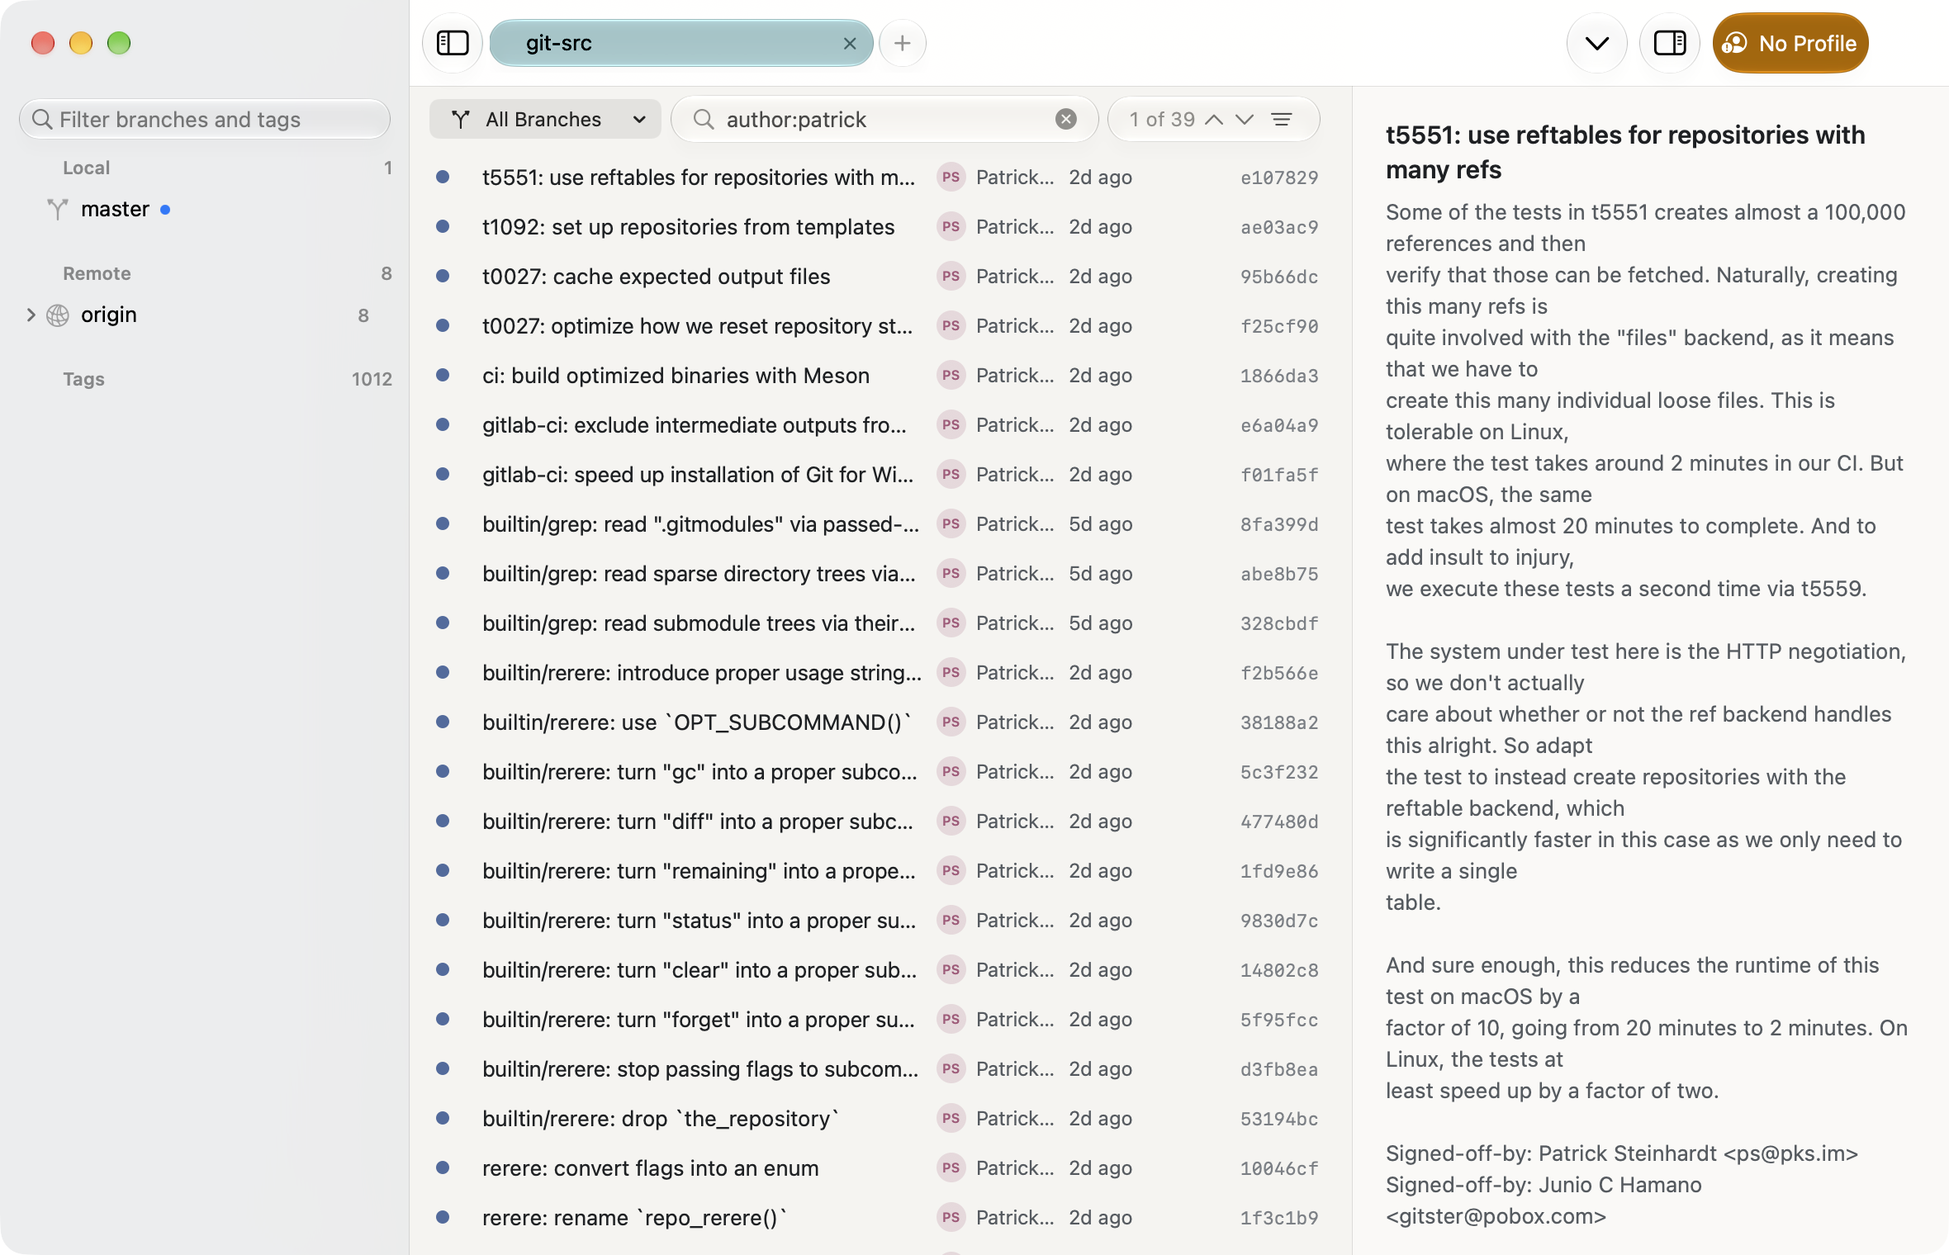
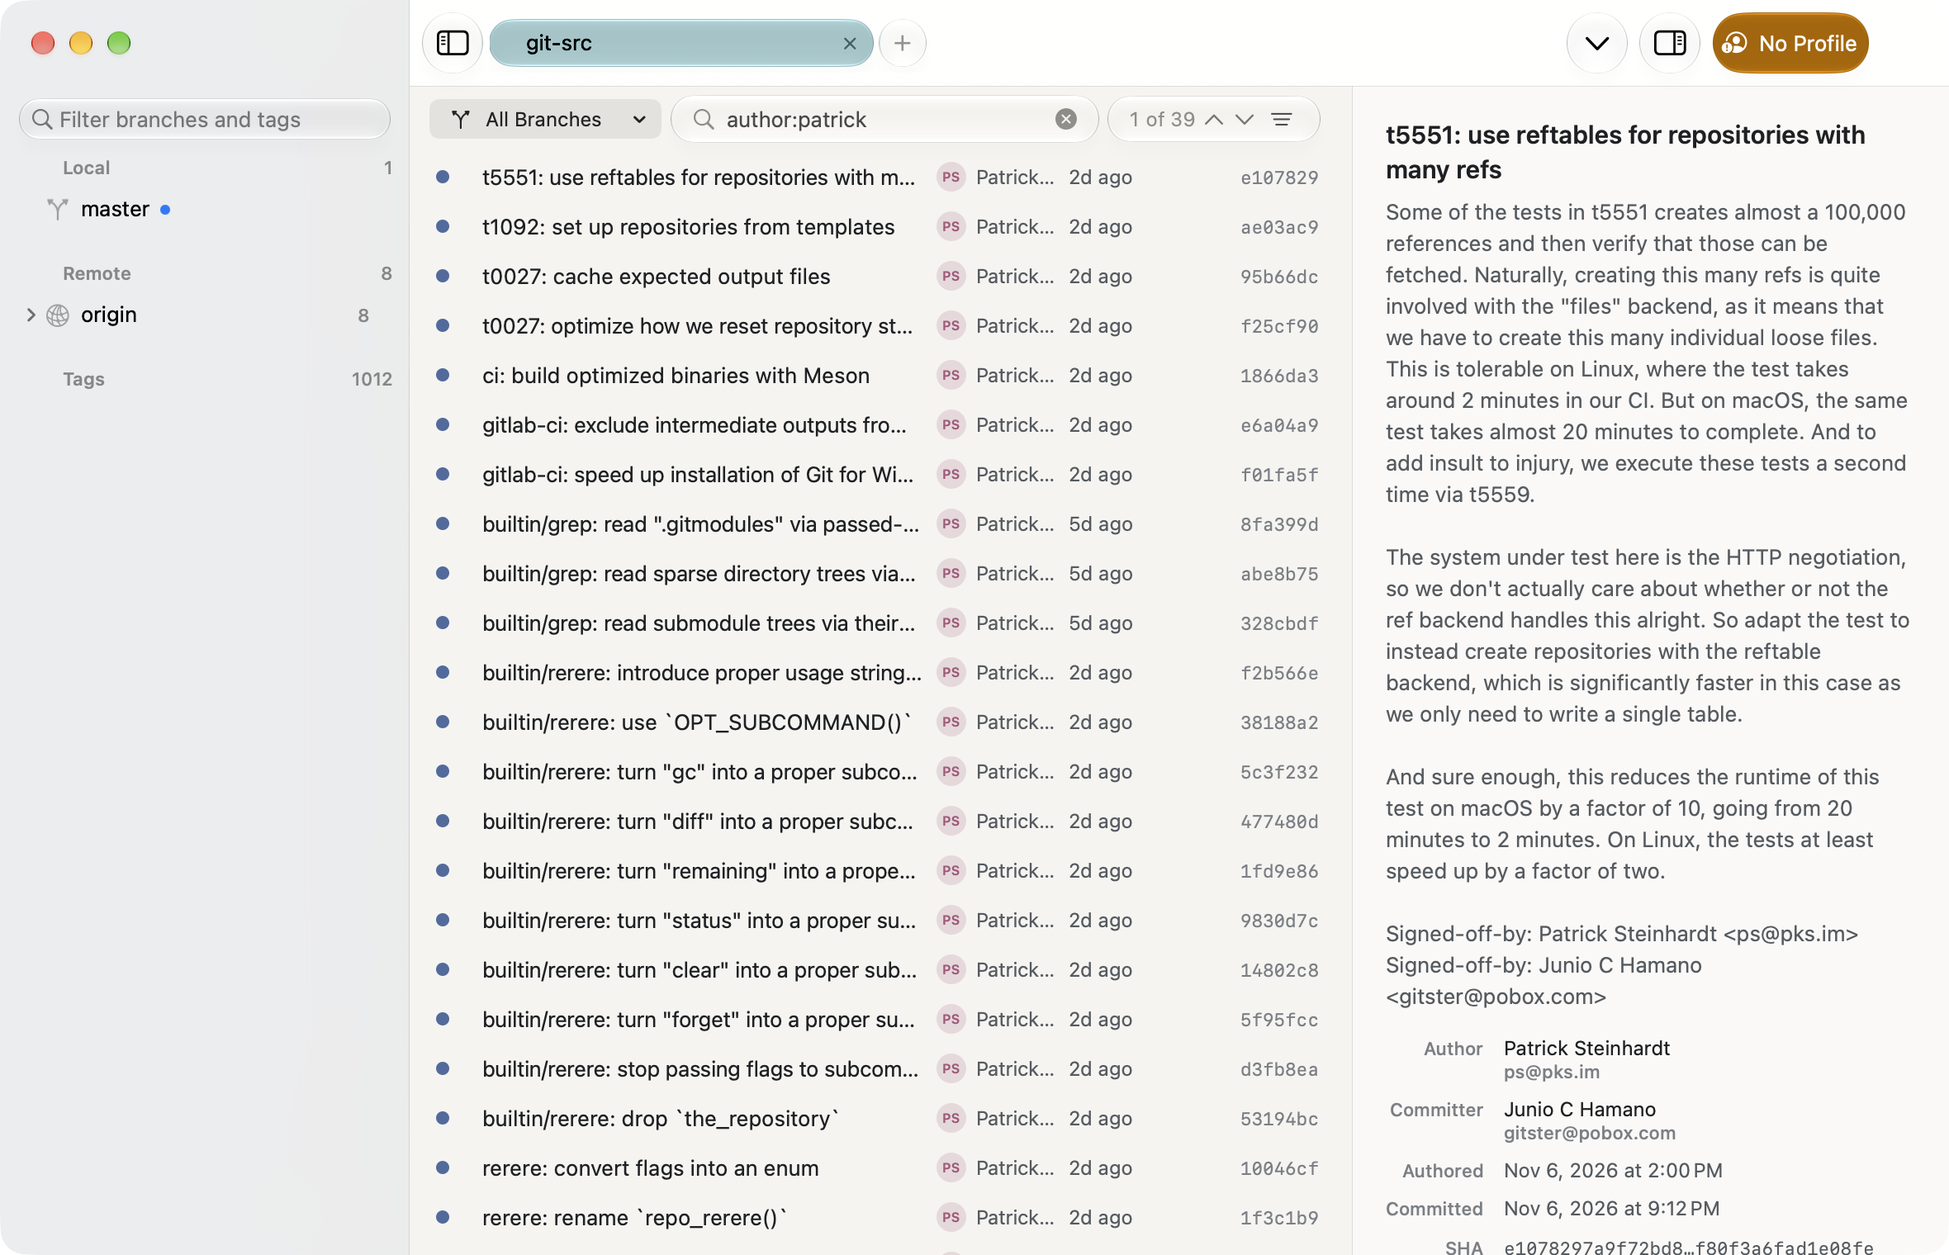
docs(phase-02): performance results, screenshots, specs, progress report

Changed region(s): [[0.7114, 0.1855, 0.9898, 1.0]]

diff --git a/docs/phases/02-graph-and-navigation/progress.md b/docs/phases/02-graph-and-navigation/progress.md
@@ -1,0 +1,137 @@
+# Phase 02 — Git graph & navigation: progress report
+
+Status: **complete with carry-overs** (listed below)
+Branch / PR: `phase/02-graph-and-navigation` (from `main` after Phases 0–1 merged), PR: see below
+Environment: MacBook Pro `Mac17,9` (Apple M5 Pro, 24 GB), macOS 27.2, Xcode 27.2, Swift 6.4.2, Git 2.54.0
+(Homebrew), XcodeGen 2.46.0
+
+## Preconditions (P2.0)
+Verified against the code: `RepositoryHandle` generation/invalidate, `ProcessRunner` (posix_spawn, argv, own
+process group, Dispatch I/O, cancellation → `killpg`), `GitTestKit`, `RepositorySession`, per-tab `ui` blob,
+FSEvents classifier with `.refs`/`.head`/`.index`/worktree kinds, status model, three-pane workbench, Phase 1 idle
+baseline. **Missing:** a suspendable stream API for backpressure — implemented as P2.0 (`ProcessStream`,
+`specs/P2.0-streamed-process.md`, 8 tests).
+
+## Implemented
+- **P2.1 Fixtures** — `GitTestKit.Topology` (fast-import DSL: linear, branch, merge/octopus, orphan, tags,
+  remote refs, detach), `SyntheticHistory` (1k/10k/100k: 50 branches, merge every 20, 200 tags), `RandomTopology`
+  (seeded DAGs), `JitBench make-history`, `scripts/benchmarks/make-history-fixture.sh`. 100k builds in 6.2 s,
+  same HEAD every time. Evidence: `TopologyTests` (4).
+- **P2.2 Refs** — `RefSnapshot`/`GitRef`, byte-level `for-each-ref` parser (peeled tags, upstream track/gone,
+  HEAD, symbolic remote HEADs, non-commit tags), inline 32-byte `ObjectID`, `StableHash` revision. 10k refs: 4 ms.
+  Evidence: `RefsTests` (11).
+- **P2.3 Spike S1/S4** — three history sources measured; long-lived `git log` with backpressure chosen; readers
+  killed when hidden; losing prototypes deleted. ADR-0010.
+- **P2.4 Commit store & reader** — chunked columnar `CommitStore`, `LogParser` (memchr, no String per field),
+  `HistoryLoader` actor (shared reads, cancellation kills Git, `--skip` restart with drift check), `HistoryQuery`
+  scopes/path/follow/pinned. 189 B/commit, 18.1 MB for 100k; 385 live heap blocks for 25 chunks. ADR-0022.
+  Evidence: `HistoryLoaderTests` (12), `HistoryReaderSuspensionTests` (2), `CommitStoreMemoryTests` (2).
+- **P2.5 Lane layout** — incremental, deterministic, prefix-stable `LaneLayouter` (cooldown, octopus, roots,
+  pinned reservations, HEAD slot 0, name-stable colours with adjacency avoidance). 10 golden files reviewed by
+  hand, seeded property test over random DAGs × random page and pipe-read sizes. 13 ms for 100k. ADR-0021.
+  Evidence: `LaneGoldenTests` (10), `LanePropertyTests` (5, one parameterised × 8 seeds), `LanePerformanceTests`.
+- **P2.6 Graph renderer** — view-based `NSTableView`, Core Graphics cells (lanes/nodes, pills+subject in one
+  view, initials avatars), per-appearance colour table, pixel snapping, WIP row, footer, skeleton/empty/error
+  states, prefetch, hover/selection, density (View ▸ Graph Density), responsive columns, glass bar with scope menu,
+  search and chips. ADR-0009. Evidence: `LaneGeometryTests`, `RefLabelTests`, `DisplayTextTests`, screenshots.
+- **P2.7 Inspector** — details (subject, reflowed body, identities, dates, SHA copy, parent links, refs), changed
+  files (status, ± bars, renames, flat/tree, first-parent for merges, Combined disabled "planned"), WIP summary,
+  LRU 32, cancellation on reselect. Evidence: `CommitDetailsTests` (6), `MessageReflowTests`.
+- **P2.8 Navigator** — Local/Remote/Tags outline on the system sidebar material, hierarchy with collapsed
+  chains, filter with auto-expand/restore, persisted expansion, tracking badges, `upstream gone`, pins, tag
+  message popover, copy/solo/pin/show menus, ↩ to show in graph. Evidence: `NavigatorTreeBuilderTests` (6),
+  `NavigatorFilterTests`.
+- **P2.9 Search/scope/pin/solo/file history** — tokens, in-memory search, match navigation (↩/⇧↩, ⌘G/⇧⌘G,
+  Edit ▸ Find), Highlight vs Show Only Matches, deep search (streamed, bounded, cancellable), scope menu +
+  branch picker (persisted), pin left, solo chip, file/folder history chip with the `--follow` caveat.
+  Evidence: `HistorySearchTests` (8), `historyFileHistoryFollowsRename`, `pinLeftAssignsLaneZero`.
+- **P2.10 Compare** — two commits (ordered older → newer, swap, `...` vs direct), commit ↔ working tree with the
+  untracked note, row menu entries. Evidence: `CompareTests` (3).
+- **P2.11 Live refresh** — `HistoryInvalidation` (unchanged / labels in place / background reload + swap keeping
+  selection and scroll anchor), hidden tabs defer, WIP row follows status, context-menu audit. ADR-0024.
+  Evidence: `HistoryInvalidationTests` (5), `HistoryControllerTests` (4).
+- **P2.12 Verification** — `JIT_BENCHMARK_GRAPH=1` in-app benchmark, idle runs, ADR-0023 read-only policy,
+  row accessibility labels.
+
+## Verified
+- Tests: `swift test` **215 passed** (GitCoreTests 150, ServicesTests 39, FeaturesTests 14, DesignSystemTests 12);
+  `xcodebuild test` (JitAppTests) **23 passed**; skipped: none. Lint clean (`scripts/build/lint.sh`).
+- Real workflow (debug and release app, real repositories): git/git clone (86k commits, 1,012 tags), 1k/10k/100k
+  fixtures, a dirty copy of the 1k fixture, an empty repository. Exercised through real launches with debug hooks
+  (row selection, compare, WIP selection, search, only-matches, density) and screenshots of each; one pointer
+  click selected a row before macOS asked to let Claude bypass the screen-capture picker — that permission was
+  left for the owner, and later checks used launch hooks instead of pointer automation. External commits /
+  label moves verified through `HistoryControllerTests` against real repositories.
+- Screenshots: `docs/phases/02-graph-and-navigation/screenshots/` — 8 screens × light/dark (index in its README).
+- Visual review: lanes thin and muted with nodes as the only emphasis, hollow merge rings, accent HEAD ring,
+  S-curves inside half rows, opaque tinted pills (current dot, `⇄` combined upstream, outlined remotes). Issues
+  found and fixed during the review: graph column hogging width (now fitted to visible lanes), columns hidden
+  under the floating inspector (safe area), SHA/author not fitting (responsive columns), skeleton not clearing,
+  ragged hard-wrapped bodies (reflow), WIP subject truncated by its counts, compare direction.
+
+## Performance (release build)
+| Metric | Previous | Now | Method |
+|---|---|---|---|
+| First 300 rows visible from history start, 100k | — | 143–156 ms with commit-graph; 413–427 ms without | `JIT_BENCHMARK_GRAPH=1` |
+| Same, git/git | — | 142–157 ms with; 485–504 ms without | same |
+| Page append (main thread) | — | median 0.27–0.30 ms | same |
+| Scroll step p95 / max, 400 screens | — | 1.76–1.94 ms / 10.9 ms, none > 16.7 ms | same |
+| Row draw p95 | — | 0.012 ms (fixtures), 0.110 ms (git/git) | same |
+| CommitStore 100k | — | 18.1 MB, 189 B/commit (git/git 86k: 53.4 MB) | `CommitStoreMemoryTests` |
+| App footprint | 31 MB no repo | 61 MB idle after first pages (100k); 86 MB all 100k loaded; 129 MB git/git all loaded | benchmark, `footprint` |
+| Search loaded 100k | — | 2.4 ms | benchmark |
+| Idle CPU / wakeups, 100k open | 0.0 % | 0.0 %; 1.0/s active, 0.57/s inactive (no-repo baseline 2.0/s) | `idle.sh` |
+| External commit → visible | — | 37 ms after the refs event (+ FSEvents 0.2 s) | `HistoryControllerTests` |
+
+Full table and methods: `docs/performance.md`.
+
+## Decisions
+- ADR-0009 Graph rendering — NSTableView + Core Graphics cells; sync row materialization (S2/S3).
+- ADR-0010 History loading — long-lived `git log` with backpressure; readers killed when hidden; `--skip` restart.
+- ADR-0021 Lane layout & colours — prefix-stable incremental layout, cooldown, HEAD slot 0, name-stable colours.
+- ADR-0022 Compact commit storage — chunked columnar store, inline 32-byte ids, parents as ids, 189 B/commit.
+- ADR-0023 Read-only invocation policy — no signature verification / ext-diff / textconv for display reads.
+- ADR-0024 History invalidation — labels in place vs background reload + swap.
+
+## Deviations from plan
+- **P2.0 added** (streamed process API was missing). Docs updated: yes.
+- **Graph toolbar** is a floating glass bar at the top of the graph pane, not window toolbar items: the window
+  toolbar is fully used by the Phase 1 tab strip. Same glass rules (one `GlassEffectContainer`). Docs: design-system.
+- **No SwiftUI snapshot / XCUITest suites** (`graph_simple_merge_{…}` snapshots, `GraphScrollsAndLoadsMore`,
+  `NavigatorKeyboardNavigation`, `ExternalCommitAppearsWithoutFlicker` UI tests): there is no snapshot-testing
+  dependency and the agent environment has no Accessibility automation (as in Phase 1). Replaced by model/controller
+  tests against real repositories (`HistoryControllerTests`, `HistoryInvalidationTests`) and real window captures.
+- **Commit store 160 B/commit excluding subjects** vs design's 120 B aim (the 25 MB total budget is met); git/git
+  needs 53 MB because its graph keeps many lanes alive (ADR-0022).
+- **First-page latency** meets 150 ms only with a commit-graph file; without one Git's topo walk dominates
+  (ADR-0010). Jit does not write commit-graphs; "Optimize repository" is a Phase 6 decision.
+- `EdgeSegment` is 4 bytes with 13-bit lanes (design: 8-bit lanes) to avoid overflow on very wide graphs.
+- The graph column width follows the lanes on screen (design: max over loaded rows, which made git/git's column
+  hit the 40 % cap and squeeze subjects).
+- Changed-files list is SwiftUI `LazyVStack` (design leaned AppKit); fine for normal commits, not measured at 10k+ files.
+- `.mailmap` is honoured (`%aN`/`%aE`) like `git log`.
+- Debug launch hooks added: `-JitGraphSelectRow`, `-JitGraphCompareRow`, `-JitGraphSearch`, `-JitGraphOnlyMatches`,
+  `-JitGraphSelectWIP`; benchmark mode `JIT_BENCHMARK_GRAPH=1`.
+- `idle.sh` parser fixed; Phase 1's "0 wakeups" was a misreading of `top` (see performance.md).
+- Phase 1 repository header and status cards were removed from the main pane (the graph replaces them); the
+  operation state (Merging/Rebasing…) moved into the graph bar as a chip; counts appear on the WIP row.
+
+## Known issues / carry-overs
+- **⇧⌘H "File History…" with a typed path** — not built; file/folder history is reachable from the inspector's file
+  menu. Low; Phase 3 (with the working-directory file list).
+- **VoiceOver rotors** ("Branch tips", "Merge commits") and a VoiceOver pass — rows have spoken labels; rotors not
+  built. Medium; Phase 6 accessibility audit.
+- **Instruments Animation Hitches fling trace, 3-tab memory, powermetrics** — not run (need interactive Instruments
+  / root). Low; Phase 6.
+- **Reduce Transparency / Increase Contrast captures of the graph bar** — need the system settings toggled by a
+  person (`scripts/testing/capture-accessibility.sh`). Code uses `jitGlass`, which goes opaque. Low; owner.
+- **Space toggles inspector focus** (design §3.7) — not built. Low; Phase 6 keyboard audit.
+- **Highlight-mode dimming of non-matching rows** (Q1) — matches are tinted; non-matches are not dimmed. Low; Phase 6.
+- **First page without commit-graph** 413–504 ms on ~100k commits — Git's cost; Phase 6 "Optimize repository".
+- **Phase 1 carry-overs** still open: Increase Contrast captures, VoiceOver pass, XCUITest suite, paths with newlines.
+
+## Self-review findings
+(see below — filled after the strict review)
+
+## Next
+- Phase 3 (`docs/phases/03-working-directory-and-diff`), P3.1. Preconditions: this PR merged.

diff --git a/docs/performance.md b/docs/performance.md
@@ -3,6 +3,39 @@
 Budget (§15.1, `docs/roadmap.md` §7) and measured results. Numbers are reported as measured; nothing
 here is estimated. Raw outputs are written to `scripts/benchmarks/out/` (git-ignored).
 
+## Phase 2 — 2026-11-09
+
+MacBook Pro `Mac17,9` (Apple M5 Pro, 24 GB), macOS 27.2, Git 2.54.0 (Homebrew), release builds. Repositories:
+`history-1000/10000/100000` fixtures (no commit-graph unless stated) and a clone of `github.com/git/git`
+(86,059 commits from all refs, 1,012 tags, no commit-graph unless stated).
+
+| Metric (implementation.md §4) | Target | Measured | Method |
+|---|---|---|---|
+| First 300 rows visible, 100k fixture, from history start | < 150 ms | **143–156 ms** with a commit-graph; **413–427 ms** without | `JIT_BENCHMARK_GRAPH=1`, 3 runs each |
+| Same, git/git | — | 142–157 ms with; 485–504 ms without | same |
+| Same, 1k fixture | — | 111–123 ms | same |
+| Folder opened → first rows drawn (adds discovery + status) | — | 188–206 ms with; 458–566 ms without | same |
+| `git log` first 300 rows (loader only) | — | 32–35 ms with; 284–379 ms without (100k) | `JitBench history-source`, ADR-0010 |
+| Page append, main thread | < 16 ms | median 0.27–0.30 ms, max 0.33 ms | same (`insertRows`) |
+| Scroll step (one screen, layout + display), 400 steps | 60 FPS | median 1.56 ms, p95 1.76–1.94 ms, max 10.9 ms; 0 steps > 16.7 ms | same |
+| Row draw (graph cell) | ≤ 2 ms p95 | p95 0.012 ms (fixtures), 0.110 ms (git/git) | same |
+| `CommitStore`, 100k commits | ≤ 25 MB | **18.1 MB (189 B/commit)**; git/git 86k: 53.4 MB (wide lane sets, ADR-0022) | `CommitStoreMemoryTests`, benchmark |
+| App footprint, 100k loaded | < 200 MB (typical repo) | 86 MB (100k fixture), 129 MB (git/git all loaded), 61 MB idle after first pages | benchmark, `footprint` |
+| Search over loaded 100k | < 30 ms | 2.4 ms (100k), 3.2 ms (git/git) | benchmark |
+| Lane layout, 100k rows | < 150 ms | 13 ms (parse + layout + store 60 ms) | `lanesLayout100kUnder150ms` |
+| Refs parse, 10k refs | < 100 ms | 4 ms | `refs10kBranchesUnder100ms` |
+| External commit → graph updated | < 500 ms | 37 ms after the refs event + FSEvents 0.2 s latency | `externalCommitAppearsAsReplacementKeepingRows` |
+| Idle CPU, 100k open | 0.0–0.2 % | 0.0 % (61 + 30 + 30 samples, active and inactive) | `idle.sh` |
+| Idle wakeups | no regression | 1.0/s active with 100k open, 0.57/s inactive; **baseline without a repository 2.0/s** in the same session | `idle.sh` (fixed parser, below) |
+| Reader process while idle | 0 CPU | 0.00 ms over 2 s; footprint 16 MB (commit-graph) – 93 MB (git/git, none); killed when the tab hides | `JitBench history-source` |
+
+Not measured (carried over): Instruments Animation Hitches during a trackpad fling (the scroll numbers above
+are main-thread cost per programmatic scroll step), memory with three large tabs, `powermetrics`.
+
+**Correction to Phase 1:** `top`'s IDLEW column in logging mode is per sample interval, not cumulative; Phase 1's
+"0 wakeups" was last − first of that column. `idle.sh` now reports the per-sample mean/max (and strips `top`'s
+`+` suffix that made the parser fail). Re-measured baseline without a repository: 2.0 wakeups/s.
+
 ## Phase 1 — 2026-11-09
 
 Environment as Phase 0 (MacBook Pro `Mac17,9`, M5 Pro, macOS 27.2, Xcode 27.2, Git 2.54.0 Homebrew), **release**

diff --git a/docs/roadmap.md b/docs/roadmap.md
@@ -3,7 +3,8 @@
 > Status: **Phase 0 implemented** (branch `phase/00-foundation`, see
 > [`phases/00-foundation/progress.md`](phases/00-foundation/progress.md)); **Phase 1 implemented** (branch
 > `phase/01-shell-and-tabs`, see [`phases/01-shell-and-tabs/progress.md`](phases/01-shell-and-tabs/progress.md));
-> Phases 2–8 are plans. Each phase folder under
+> **Phase 2 implemented** (branch `phase/02-graph-and-navigation`, see
+> [`phases/02-graph-and-navigation/progress.md`](phases/02-graph-and-navigation/progress.md)); Phases 3–8 are plans. Each phase folder under
 > [`docs/phases/`](phases/) holds a design doc, an implementation plan and a kickoff prompt.
 > The source requirements are in [`docs/master-prompt.md`](master-prompt.md); section references
 > such as **§7.4** point into that file.
@@ -178,8 +179,8 @@ Assigned across the phase designs; check here before adding one (Phase 6 audits 
 | 0006 | **Accepted.** macOS 26+ and native Liquid Glass (glass chrome, opaque content). Phase 0 adds: minimum Git version (proposal 2.39 — covers `merge-tree --write-tree` and `zdiff3`) checked on first Git use; App Sandbox off, Hardened Runtime on; bundle ID placeholder `com.example.jit`. | planning + P0 |
 | 0007 | **Accepted.** State: Swift Observation, small observable models per concern; persistence = `UserDefaults` for preferences + versioned atomic JSON files (session, recents, profiles) in Application Support; no database; one main window. | P1 |
 | 0008 | **Accepted.** File watching: one directory-level FSEvents stream per *visible* repository of a foreground window (latency 0.2 s), pure classifier → `RepositoryHandle` invalidations, coalesced refreshes, `--no-optional-locks`. | P1 |
-| 0009 | Graph rendering: view-based `NSTableView` (or `NSCollectionView`) with a custom-drawn Core Graphics graph column; lane geometry computed in `GitCore`. Opaque content layer under glass chrome. | P2 |
-| 0010 | History loading: streamed `git log --topo-order` pages with top-down incremental lane assignment so earlier rows never re-layout. | P2 |
+| 0009 | **Accepted.** Graph rendering: view-based `NSTableView` (or `NSCollectionView`) with a custom-drawn Core Graphics graph column; lane geometry computed in `GitCore`. Opaque content layer under glass chrome. | P2 |
+| 0010 | **Accepted** (long-lived reader, killed when hidden). History loading: streamed `git log --topo-order` pages with top-down incremental lane assignment so earlier rows never re-layout. | P2 |
 | 0011 | Diff renderer: spike TextKit 2 vs a custom virtualized Core Text line renderer; pick by measured performance and selection semantics. | P3 |
 | 0012 | Syntax highlighting: tree-sitter C runtime via a SwiftPM C target (or a lighter lexer if it wins on size/speed), computed lazily for visible ranges as compact span runs. | P3 |
 | 0013 | Partial staging: build full-context patches from a captured snapshot, `git apply --check` then `git apply` against index/worktree, verify after. | P3 |

diff --git a/docs/phases/02-graph-and-navigation/screenshots/README.md b/docs/phases/02-graph-and-navigation/screenshots/README.md
@@ -1,0 +1,18 @@
+# Phase 2 screenshots
+
+Real window captures (`scripts/testing/screenshot.sh`, debug build, fresh `JIT_APP_SUPPORT`), light and dark.
+Debug launch hooks select rows / search without pointer automation (CLAUDE.md).
+
+| File | Shows |
+|---|---|
+| `graph-normal-*` | git/git, merge commit selected: first-parent files, parents, reflowed body |
+| `graph-compact-*` | Compact density (`-graphDensity compact`) |
+| `graph-search-*` | Search `refs`: counter, match navigation, current match selected |
+| `graph-onlymatches-*` | `author:patrick`, Show Only Matches (flat list with dots, SHA column visible) |
+| `graph-wip-*` | Dirty working tree: dashed WIP node into HEAD, WIP summary in the inspector |
+| `graph-compare-*` | Two commits selected: compare older → newer, since common ancestor |
+| `graph-empty-*` | Unborn repository: "No commits yet", navigator unborn note |
+| `graph-fixture100k-*` | 100k fixture, HEAD row selected: current-branch pill, remote outline pill, branch-name colours |
+
+Not captured: loading skeleton (too brief to catch reliably), error banner, Reduce Transparency /
+Increase Contrast variants (need the system setting toggled by a person).
